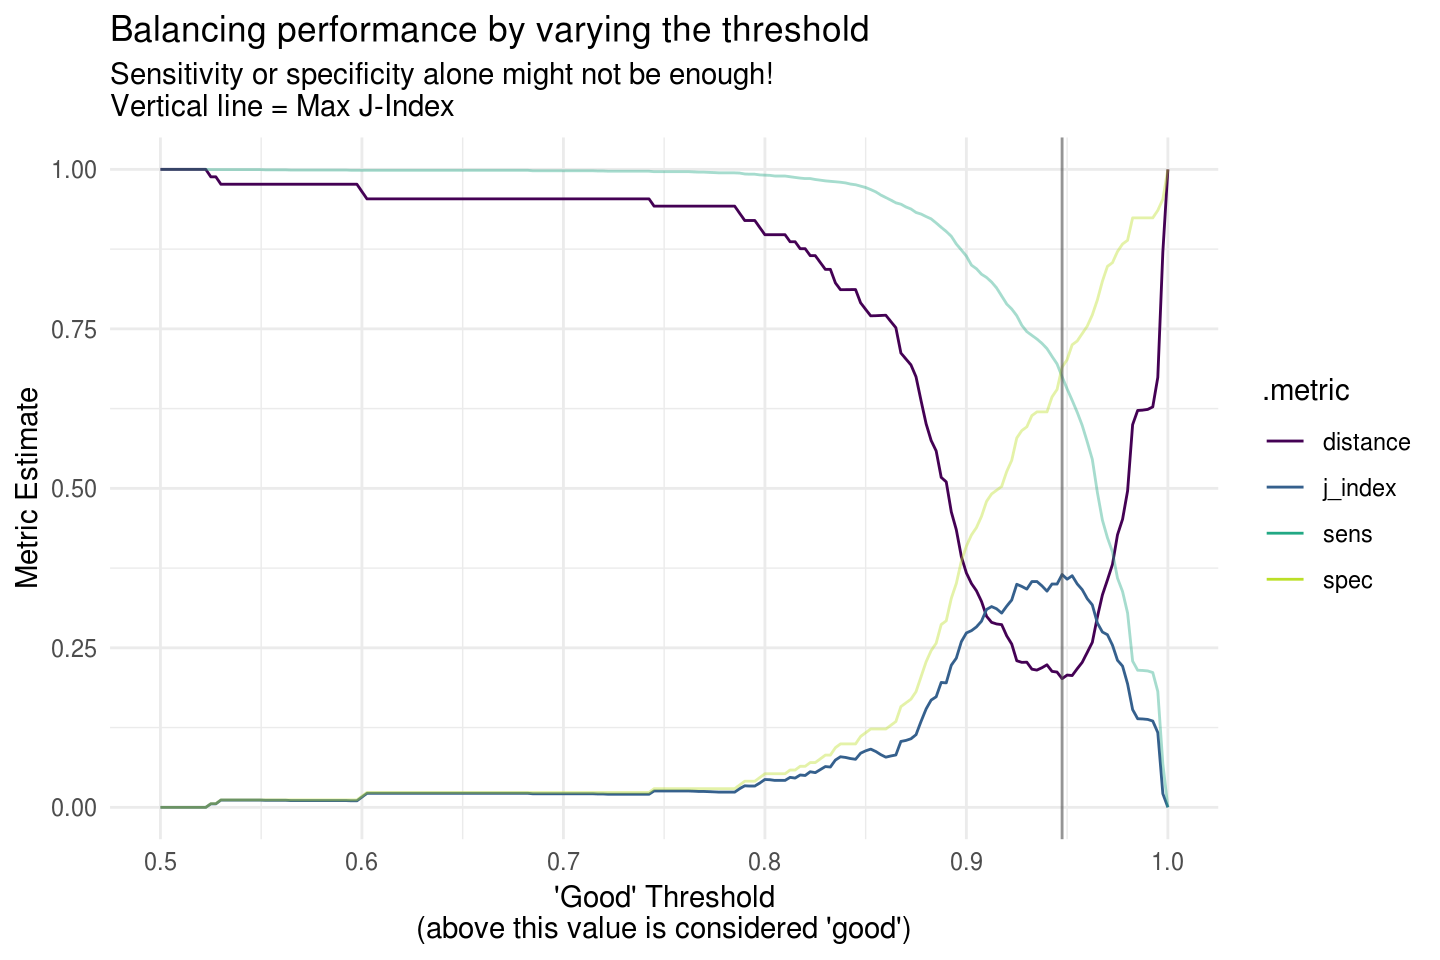
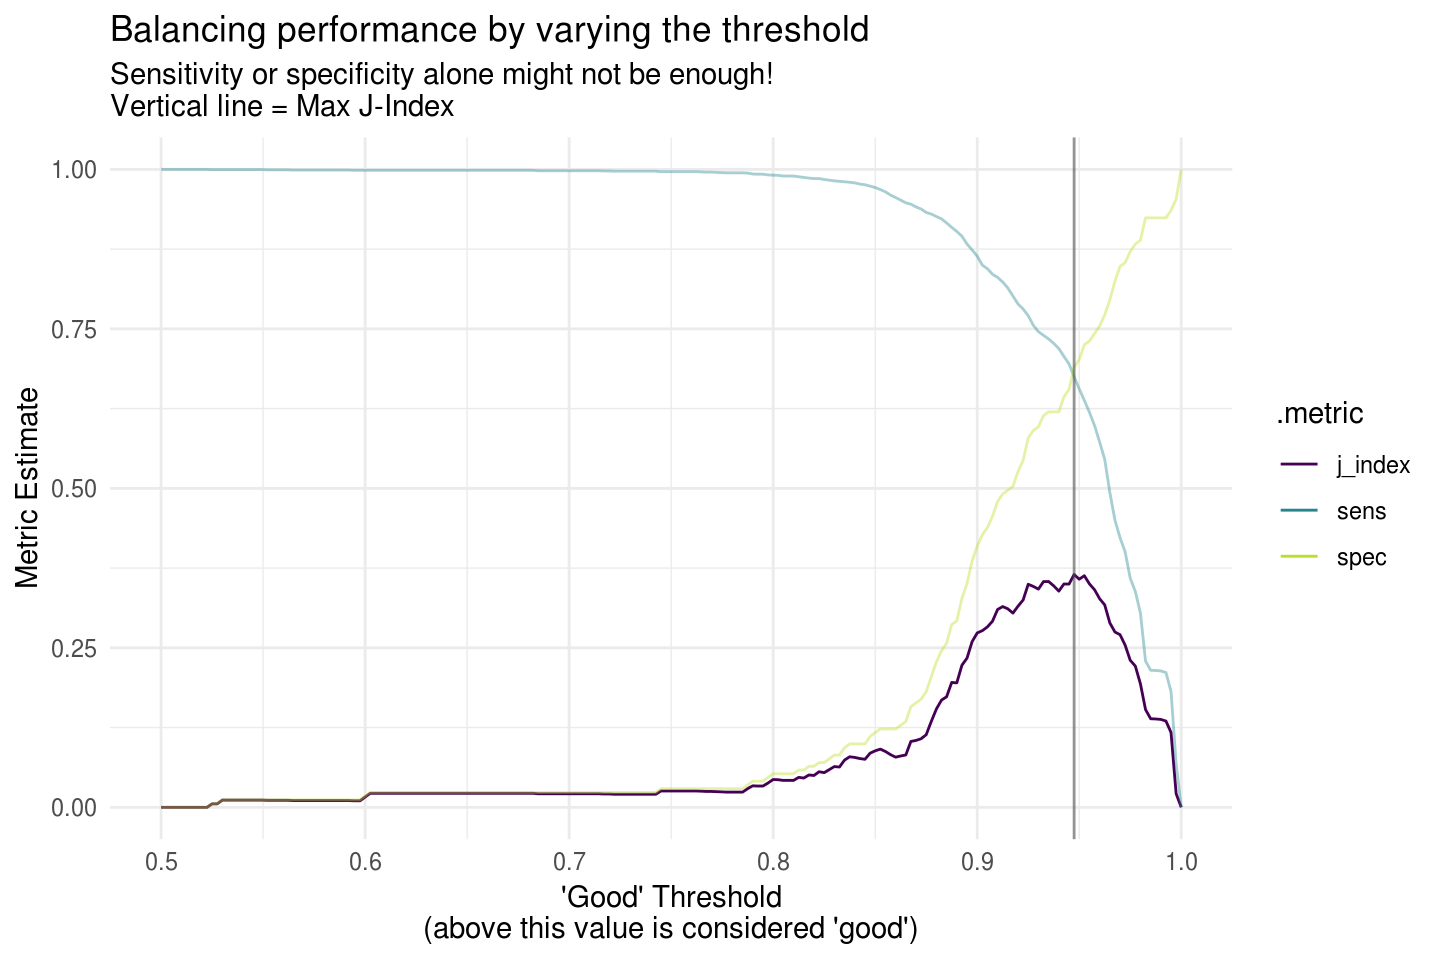
Built site for probably: 0.0.0.9000@0e9a9c1

diff --git a/articles/where-to-use.html b/articles/where-to-use.html
@@ -355,39 +355,39 @@
 <div class="sourceCode" id="cb11"><pre class="sourceCode r"><code class="sourceCode r"><a class="sourceLine" id="cb11-1" data-line-number="1"><span class="kw"><a href="https://www.rdocumentation.org/packages/base/topics/library">library</a></span>(ggplot2)</a>
 <a class="sourceLine" id="cb11-2" data-line-number="2"></a>
 <a class="sourceLine" id="cb11-3" data-line-number="3">threshold_data &lt;-<span class="st"> </span>threshold_data <span class="op">%&gt;%</span></a>
-<a class="sourceLine" id="cb11-4" data-line-number="4"><span class="st">  </span><span class="kw"><a href="http://dplyr.tidyverse.org/reference/mutate.html">mutate</a></span>(<span class="dt">group =</span> <span class="kw"><a href="http://dplyr.tidyverse.org/reference/case_when.html">case_when</a></span>(</a>
-<a class="sourceLine" id="cb11-5" data-line-number="5">    .metric <span class="op">==</span><span class="st"> "sens"</span> <span class="op">|</span><span class="st"> </span>.metric <span class="op">==</span><span class="st"> "spec"</span> <span class="op">~</span><span class="st"> "1"</span>,</a>
-<a class="sourceLine" id="cb11-6" data-line-number="6">    <span class="ot">TRUE</span> <span class="op">~</span><span class="st"> "2"</span></a>
-<a class="sourceLine" id="cb11-7" data-line-number="7">  ))</a>
-<a class="sourceLine" id="cb11-8" data-line-number="8"></a>
-<a class="sourceLine" id="cb11-9" data-line-number="9">max_j_index_threshold &lt;-<span class="st"> </span>threshold_data <span class="op">%&gt;%</span></a>
-<a class="sourceLine" id="cb11-10" data-line-number="10"><span class="st">  </span><span class="kw"><a href="http://dplyr.tidyverse.org/reference/filter.html">filter</a></span>(.metric <span class="op">==</span><span class="st"> "j_index"</span>) <span class="op">%&gt;%</span></a>
-<a class="sourceLine" id="cb11-11" data-line-number="11"><span class="st">  </span><span class="kw"><a href="http://dplyr.tidyverse.org/reference/filter.html">filter</a></span>(.estimate <span class="op">==</span><span class="st"> </span><span class="kw"><a href="https://www.rdocumentation.org/packages/base/topics/Extremes">max</a></span>(.estimate)) <span class="op">%&gt;%</span></a>
-<a class="sourceLine" id="cb11-12" data-line-number="12"><span class="st">  </span><span class="kw"><a href="http://dplyr.tidyverse.org/reference/pull.html">pull</a></span>(.threshold)</a>
-<a class="sourceLine" id="cb11-13" data-line-number="13"></a>
-<a class="sourceLine" id="cb11-14" data-line-number="14"><span class="kw"><a href="ggplot2.tidyverse.org/reference/ggplot.html">ggplot</a></span>(threshold_data, <span class="kw"><a href="ggplot2.tidyverse.org/reference/aes.html">aes</a></span>(<span class="dt">x =</span> .threshold, <span class="dt">y =</span> .estimate, <span class="dt">color =</span> .metric, <span class="dt">alpha =</span> group)) <span class="op">+</span></a>
-<a class="sourceLine" id="cb11-15" data-line-number="15"><span class="st">  </span><span class="kw"><a href="ggplot2.tidyverse.org/reference/geom_path.html">geom_line</a></span>() <span class="op">+</span></a>
-<a class="sourceLine" id="cb11-16" data-line-number="16"><span class="st">  </span><span class="kw"><a href="ggplot2.tidyverse.org/reference/ggtheme.html">theme_minimal</a></span>() <span class="op">+</span></a>
-<a class="sourceLine" id="cb11-17" data-line-number="17"><span class="st">  </span><span class="kw"><a href="ggplot2.tidyverse.org/reference/scale_viridis.html">scale_color_viridis_d</a></span>(<span class="dt">end =</span> <span class="fl">0.9</span>) <span class="op">+</span></a>
-<a class="sourceLine" id="cb11-18" data-line-number="18"><span class="st">  </span><span class="kw"><a href="ggplot2.tidyverse.org/reference/scale_manual.html">scale_alpha_manual</a></span>(<span class="dt">values =</span> <span class="kw"><a href="https://www.rdocumentation.org/packages/base/topics/c">c</a></span>(.<span class="dv">4</span>, <span class="dv">1</span>), <span class="dt">guide =</span> <span class="st">"none"</span>) <span class="op">+</span></a>
-<a class="sourceLine" id="cb11-19" data-line-number="19"><span class="st">  </span><span class="kw"><a href="ggplot2.tidyverse.org/reference/geom_abline.html">geom_vline</a></span>(<span class="dt">xintercept =</span> max_j_index_threshold, <span class="dt">alpha =</span> <span class="fl">.6</span>, <span class="dt">color =</span> <span class="st">"grey30"</span>) <span class="op">+</span></a>
-<a class="sourceLine" id="cb11-20" data-line-number="20"><span class="st">  </span><span class="kw"><a href="ggplot2.tidyverse.org/reference/labs.html">labs</a></span>(</a>
-<a class="sourceLine" id="cb11-21" data-line-number="21">    <span class="dt">x =</span> <span class="st">"'Good' Threshold</span><span class="ch">\n</span><span class="st">(above this value is considered 'good')"</span>,</a>
-<a class="sourceLine" id="cb11-22" data-line-number="22">    <span class="dt">y =</span> <span class="st">"Metric Estimate"</span>,</a>
-<a class="sourceLine" id="cb11-23" data-line-number="23">    <span class="dt">title =</span> <span class="st">"Balancing performance by varying the threshold"</span>,</a>
-<a class="sourceLine" id="cb11-24" data-line-number="24">    <span class="dt">subtitle =</span> <span class="st">"Sensitivity or specificity alone might not be enough!</span><span class="ch">\n</span><span class="st">Vertical line = Max J-Index"</span></a>
-<a class="sourceLine" id="cb11-25" data-line-number="25">  )</a></code></pre></div>
+<a class="sourceLine" id="cb11-4" data-line-number="4"><span class="st">  </span><span class="kw"><a href="http://dplyr.tidyverse.org/reference/filter.html">filter</a></span>(.metric <span class="op">!=</span><span class="st"> "distance"</span>) <span class="op">%&gt;%</span></a>
+<a class="sourceLine" id="cb11-5" data-line-number="5"><span class="st">  </span><span class="kw"><a href="http://dplyr.tidyverse.org/reference/mutate.html">mutate</a></span>(<span class="dt">group =</span> <span class="kw"><a href="http://dplyr.tidyverse.org/reference/case_when.html">case_when</a></span>(</a>
+<a class="sourceLine" id="cb11-6" data-line-number="6">    .metric <span class="op">==</span><span class="st"> "sens"</span> <span class="op">|</span><span class="st"> </span>.metric <span class="op">==</span><span class="st"> "spec"</span> <span class="op">~</span><span class="st"> "1"</span>,</a>
+<a class="sourceLine" id="cb11-7" data-line-number="7">    <span class="ot">TRUE</span> <span class="op">~</span><span class="st"> "2"</span></a>
+<a class="sourceLine" id="cb11-8" data-line-number="8">  ))</a>
+<a class="sourceLine" id="cb11-9" data-line-number="9"></a>
+<a class="sourceLine" id="cb11-10" data-line-number="10">max_j_index_threshold &lt;-<span class="st"> </span>threshold_data <span class="op">%&gt;%</span></a>
+<a class="sourceLine" id="cb11-11" data-line-number="11"><span class="st">  </span><span class="kw"><a href="http://dplyr.tidyverse.org/reference/filter.html">filter</a></span>(.metric <span class="op">==</span><span class="st"> "j_index"</span>) <span class="op">%&gt;%</span></a>
+<a class="sourceLine" id="cb11-12" data-line-number="12"><span class="st">  </span><span class="kw"><a href="http://dplyr.tidyverse.org/reference/filter.html">filter</a></span>(.estimate <span class="op">==</span><span class="st"> </span><span class="kw"><a href="https://www.rdocumentation.org/packages/base/topics/Extremes">max</a></span>(.estimate)) <span class="op">%&gt;%</span></a>
+<a class="sourceLine" id="cb11-13" data-line-number="13"><span class="st">  </span><span class="kw"><a href="http://dplyr.tidyverse.org/reference/pull.html">pull</a></span>(.threshold)</a>
+<a class="sourceLine" id="cb11-14" data-line-number="14"></a>
+<a class="sourceLine" id="cb11-15" data-line-number="15"><span class="kw"><a href="ggplot2.tidyverse.org/reference/ggplot.html">ggplot</a></span>(threshold_data, <span class="kw"><a href="ggplot2.tidyverse.org/reference/aes.html">aes</a></span>(<span class="dt">x =</span> .threshold, <span class="dt">y =</span> .estimate, <span class="dt">color =</span> .metric, <span class="dt">alpha =</span> group)) <span class="op">+</span></a>
+<a class="sourceLine" id="cb11-16" data-line-number="16"><span class="st">  </span><span class="kw"><a href="ggplot2.tidyverse.org/reference/geom_path.html">geom_line</a></span>() <span class="op">+</span></a>
+<a class="sourceLine" id="cb11-17" data-line-number="17"><span class="st">  </span><span class="kw"><a href="ggplot2.tidyverse.org/reference/ggtheme.html">theme_minimal</a></span>() <span class="op">+</span></a>
+<a class="sourceLine" id="cb11-18" data-line-number="18"><span class="st">  </span><span class="kw"><a href="ggplot2.tidyverse.org/reference/scale_viridis.html">scale_color_viridis_d</a></span>(<span class="dt">end =</span> <span class="fl">0.9</span>) <span class="op">+</span></a>
+<a class="sourceLine" id="cb11-19" data-line-number="19"><span class="st">  </span><span class="kw"><a href="ggplot2.tidyverse.org/reference/scale_manual.html">scale_alpha_manual</a></span>(<span class="dt">values =</span> <span class="kw"><a href="https://www.rdocumentation.org/packages/base/topics/c">c</a></span>(.<span class="dv">4</span>, <span class="dv">1</span>), <span class="dt">guide =</span> <span class="st">"none"</span>) <span class="op">+</span></a>
+<a class="sourceLine" id="cb11-20" data-line-number="20"><span class="st">  </span><span class="kw"><a href="ggplot2.tidyverse.org/reference/geom_abline.html">geom_vline</a></span>(<span class="dt">xintercept =</span> max_j_index_threshold, <span class="dt">alpha =</span> <span class="fl">.6</span>, <span class="dt">color =</span> <span class="st">"grey30"</span>) <span class="op">+</span></a>
+<a class="sourceLine" id="cb11-21" data-line-number="21"><span class="st">  </span><span class="kw"><a href="ggplot2.tidyverse.org/reference/labs.html">labs</a></span>(</a>
+<a class="sourceLine" id="cb11-22" data-line-number="22">    <span class="dt">x =</span> <span class="st">"'Good' Threshold</span><span class="ch">\n</span><span class="st">(above this value is considered 'good')"</span>,</a>
+<a class="sourceLine" id="cb11-23" data-line-number="23">    <span class="dt">y =</span> <span class="st">"Metric Estimate"</span>,</a>
+<a class="sourceLine" id="cb11-24" data-line-number="24">    <span class="dt">title =</span> <span class="st">"Balancing performance by varying the threshold"</span>,</a>
+<a class="sourceLine" id="cb11-25" data-line-number="25">    <span class="dt">subtitle =</span> <span class="st">"Sensitivity or specificity alone might not be enough!</span><span class="ch">\n</span><span class="st">Vertical line = Max J-Index"</span></a>
+<a class="sourceLine" id="cb11-26" data-line-number="26">  )</a></code></pre></div>
 <p><img src="where-to-use_files/figure-html/unnamed-chunk-11-1.png" width="720"></p>
 <p>It’s clear from this visual that the optimal threshold is very high, exactly 0.9475. This is pretty high, so again, this optimization method won’t be useful for all cases. To wrap up, here are all of the test set metrics for that threshold value.</p>
 <div class="sourceCode" id="cb12"><pre class="sourceCode r"><code class="sourceCode r"><a class="sourceLine" id="cb12-1" data-line-number="1">threshold_data <span class="op">%&gt;%</span></a>
 <a class="sourceLine" id="cb12-2" data-line-number="2"><span class="st">  </span><span class="kw"><a href="http://dplyr.tidyverse.org/reference/filter.html">filter</a></span>(.threshold <span class="op">==</span><span class="st"> </span>max_j_index_threshold)</a>
-<a class="sourceLine" id="cb12-3" data-line-number="3"><span class="co">#&gt; # A tibble: 4 x 5</span></a>
-<a class="sourceLine" id="cb12-4" data-line-number="4"><span class="co">#&gt;   .threshold .estimator .metric  .estimate group</span></a>
-<a class="sourceLine" id="cb12-5" data-line-number="5"><span class="co">#&gt;        &lt;dbl&gt; &lt;chr&gt;      &lt;chr&gt;        &lt;dbl&gt; &lt;chr&gt;</span></a>
-<a class="sourceLine" id="cb12-6" data-line-number="6"><span class="co">#&gt; 1      0.948 binary     j_index      0.365 2    </span></a>
-<a class="sourceLine" id="cb12-7" data-line-number="7"><span class="co">#&gt; 2      0.948 binary     sens         0.675 1    </span></a>
-<a class="sourceLine" id="cb12-8" data-line-number="8"><span class="co">#&gt; 3      0.948 binary     spec         0.690 1    </span></a>
-<a class="sourceLine" id="cb12-9" data-line-number="9"><span class="co">#&gt; 4      0.948 binary     distance     0.202 2</span></a></code></pre></div>
+<a class="sourceLine" id="cb12-3" data-line-number="3"><span class="co">#&gt; # A tibble: 3 x 5</span></a>
+<a class="sourceLine" id="cb12-4" data-line-number="4"><span class="co">#&gt;   .threshold .estimator .metric .estimate group</span></a>
+<a class="sourceLine" id="cb12-5" data-line-number="5"><span class="co">#&gt;        &lt;dbl&gt; &lt;chr&gt;      &lt;chr&gt;       &lt;dbl&gt; &lt;chr&gt;</span></a>
+<a class="sourceLine" id="cb12-6" data-line-number="6"><span class="co">#&gt; 1      0.948 binary     j_index     0.365 2    </span></a>
+<a class="sourceLine" id="cb12-7" data-line-number="7"><span class="co">#&gt; 2      0.948 binary     sens        0.675 1    </span></a>
+<a class="sourceLine" id="cb12-8" data-line-number="8"><span class="co">#&gt; 3      0.948 binary     spec        0.690 1</span></a></code></pre></div>
 </div>
   </div>
 
